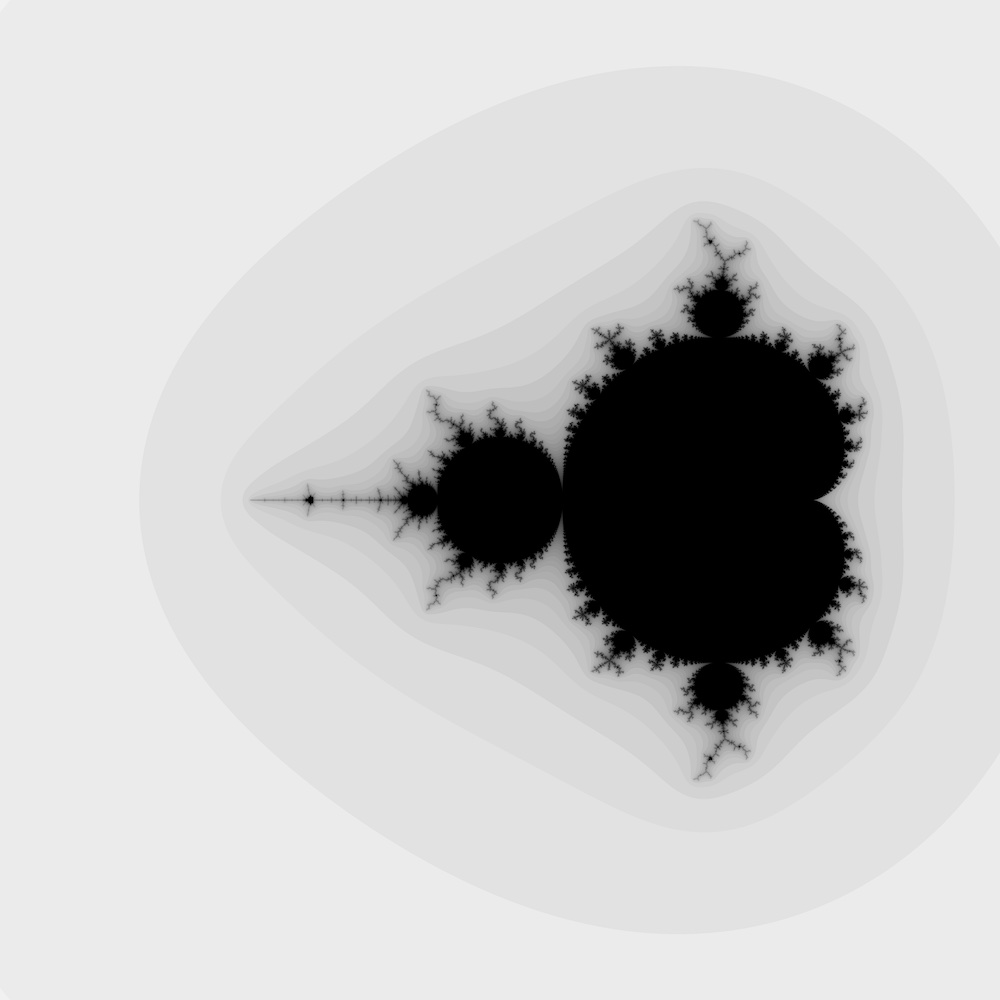
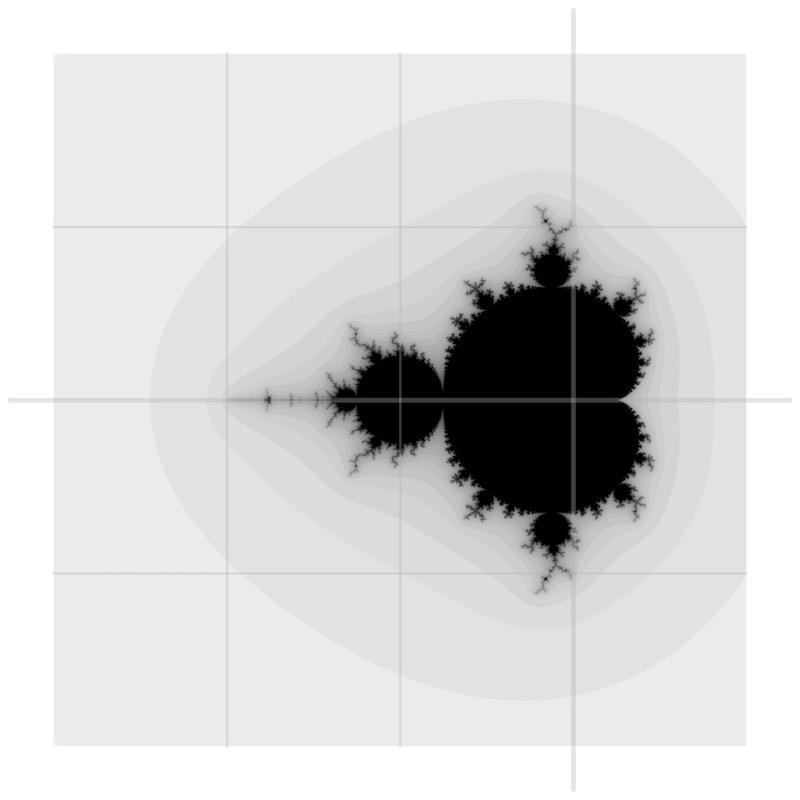
more README

Changed region(s): [[0.375, 0.2188, 0.875, 0.7812], [0.9062, 0.1562, 1.0, 0.8438], [0.2812, 0.4688, 0.3438, 0.5312]]

diff --git a/mandelbrot.c b/mandelbrot.c
@@ -4,18 +4,29 @@
 #include <printf.h>
 #include <stdlib.h>
 #include <math.h>
+#include <assert.h>
 #include "thread.h"
 #include "mandelbrot.h"
 
+#define TL_A -3.0
+#define TL_B +2.0
+#define BR_A +1.0
+#define BR_B -2.0
+
 Mandelbrot* mNew(Complex tl, Complex br, bool invert) {
   Mandelbrot* m = malloc(sizeof(Mandelbrot));
+  assert(m != NULL);
   m->tl = tl;
   m->br = br;
   Complex d = cSub(m->tl, m->br);
   m->w = (int) (fabs(d.a) / D);
   m->h = (int) (fabs(d.b) / D);
   m->i = malloc(m->h * sizeof(int*));
-  for (int y = 0; y < m->h; y++) m->i[y] = malloc(m->w * sizeof(int));
+  assert(m->i != NULL);
+  for (int y = 0; y < m->h; y++) {
+    m->i[y] = malloc(m->w * sizeof(int));
+    assert(m->i[y]);
+  }
   m->invert = invert;
   return m;
 }
@@ -29,6 +40,7 @@ void mDel(Mandelbrot* m) {
 
 static void save(Mandelbrot* mm[], int n, int w, int h, const char* fn) {
   FILE* fp = fopen(fn, "wb");
+  assert(fp != NULL);
   fprintf(fp, "P2\n%d %d\n%d\n", w, h, L);
   for (int i = 0; i < n; i++)
     for (int y = 0; y < mm[i]->h; y++) {
@@ -66,9 +78,9 @@ static void* mandelbrot(void* data) {
 
 static void serial() {
   /* Compute the Mandelbrot set using a single thread. */
-  Complex tl = rOfD(-3.0, +2.0);
-  Complex br = rOfD(+1.0, -2.0);
-  Mandelbrot* m = mNew(tl, br, true);
+  Complex tlM = rOfD(TL_A, TL_B);
+  Complex brM = rOfD(BR_A, BR_B);
+  Mandelbrot* m = mNew(tlM, brM, true);
   mandelbrot(m);
   Mandelbrot* mm[] = {m};
   save(mm, 1, m->w, m->h, "./mandelbrot-s.pgm");
@@ -77,16 +89,16 @@ static void serial() {
 
 static void parallel() {
   /* Compute the Mandelbrot set using multiple threads. */
-  Complex tl = rOfD(-3.0, +2.0);
-  Complex br = rOfD(+1.0, -2.0);
-  Complex d = cSub(tl, br); // c-plane dimensions
-  double py = d.b / (double) NUM_THREADS; // c-plane patch height
+  Complex tlM = rOfD(TL_A, TL_B);
+  Complex brM = rOfD(BR_A, BR_B);
+  Complex d = cSub(tlM, brM); // c-plane dimensions
+  double yP = d.b / (double) NUM_THREADS; // c-plane patch height
   Mandelbrot* mm[NUM_THREADS];
   Thread tt[NUM_THREADS];
   for (int t = 0; t < NUM_THREADS; t++) {
-    Complex ptl = rOfD(tl.a, tl.b - (double) t * py);
-    Complex pbr = rOfD(br.a, ptl.b - py);
-    mm[t] = mNew(ptl, pbr, false);
+    Complex tlP = rOfD(tlM.a, tlM.b - (double) t * yP);
+    Complex brP = rOfD(brM.a, tlP.b - yP);
+    mm[t] = mNew(tlP, brP, false);
     tt[t] = tRun(mandelbrot, mm[t]);
   }
   for (int t = 0; t < NUM_THREADS; t++) tStop(tt[t]);

diff --git a/README.md b/README.md
@@ -44,7 +44,7 @@ The file `thread.[ch]` provide a simplified interface to POSIX threads. `tRun()`
 
 The Mandelbrot set fractal is named after its discoverer, [Benoît Mandelbrot](https://en.wikipedia.org/wiki/Benoit_Mandelbrot), a Polish-born American mathematician, who is known for his work in the fields of fractal geometry, chaos theory, and complex analysis.
 
-A [fractal](https://en.wikipedia.org/wiki/Fractal) is a geometric object that is recursively self similar at any scale. That is, a zoomed in version of a fractal contains similar, but smaller and differently oriented, copies of the original. Remarkably, a fractal exhibits self similarity at all scales. Fractals exist in nature: coastlines, ice crystals, broccoli heads, to name a few. And there are many mathematical fractals: Julia set, von Koch curve, Sierpiński triangle, etc. The Mandelbrot set $M$—that dark region in the image below—is the most famous of them all. The self similarity of $M$ is self evident.
+A [fractal](https://en.wikipedia.org/wiki/Fractal) is a geometric object that is recursively self similar at any scale. That is, a zoomed in version of a fractal contains similar, but smaller and differently oriented, copies of the original. Remarkably, a fractal exhibits self similarity at all scales. Fractals exist in nature: coastlines, ice crystals, broccoli heads, to name a few. And there are many mathematical fractals: Julia set, von Koch curve, Sierpiński triangle, etc. The Mandelbrot set $M$—that strange, dark shape in the image below—is the most famous of them all. The self similarity of $M$ is self evident.
 
 ![Mandelbrot set fractal](./doc/mandelbrot.jpg)
 
@@ -52,10 +52,46 @@ Although the mathematics that underlies the Mandelbrot set is intricate and expa
 
 First, we define a square region on the complex $c$-plane, with the top-left corner at $-3.0 + j2.0$ and the bottom-right corner at $+1.0 - j2.0$. Hence, this region is $4.0 \times 4.0$ in size. Next, we select a complex number $c$ from this region, say the top-left corner. Then, we iterate the expression $z \leftarrow z^2 + c$, where $c$ is the value selected and the initial value of $z$ is set to the origin $0.0 + j0.0$ of the $c$-plane. In mathematics, to iterate a function $f$ on an argument $x$ is to compute $f \circ f \circ ... f\ x$. In functional programming, we may write `x |> f |> f |> ... |> f`, where `|>` means pipe-right.
 
-We terminate the process either when we have iterated a fixed number of times or when the result meets a certain criterion. As we iterate, the value of $z$ chaotically hops about the $c$-plane, and eventually reaching one of these states: falls into the origin if $c$ is selected from inside the set $M$; endlessly swirls along the boundary of $M$ of $c$ itself is on the boundary; or escapes to $∞$ if $c$ is outside $M$. Here, we iterate $100$ times or until $\lvert z \rvert > 10.0$, whichever comes first. The plot below shows the trajectory of $z$ for $c = -0.74543 + j0.11301$, which is in a neighbourhood of $M$ called the [Seahorse Valley](https://upload.wikimedia.org/wikipedia/commons/5/5b/Mandel_zoom_03_seehorse.jpg), for the repeated seahorse shapes that dot all along the boundary of $M$ in this neighbourhood. Those blue dots that indicate the trajectory of $z$ do indeed resemble a pair of seahorses.
+We terminate the process either when we have iterated a fixed number of times or when the result meets a certain criterion. As we iterate, the value of $z$ chaotically hops about the $c$-plane, and eventually reaching one of these states: falls into the origin if $c$ is selected from inside the set $M$; endlessly swirls along the boundary of $M$ of $c$ itself is on the boundary; or escapes to $∞$ if $c$ is outside $M$. The origin and the $\infty$ are referred to as *attractors* in the complex analysis subfield of mathematics. Here, we iterate $100$ times or until $\lvert z \rvert > 10.0$, whichever comes first. The plot below shows the trajectory of $z$ for $c = -0.74543 + j0.11301$, which is in a neighbourhood of $M$ called the [Seahorse Valley](https://upload.wikimedia.org/wikipedia/commons/5/5b/Mandel_zoom_03_seehorse.jpg), for the repeated seahorse shapes that dot all along the boundary of $M$ in this neighbourhood. Those blue dots that indicate the trajectory of $z$ do indeed resemble a pair of seahorses.
 
 ![Mandelbrot set fractal](./doc/iterate.jpg)
 
 When the iteration for a specific $c$ terminates, we associate the final iteration index, referred to as the *escape time*, with the location on the $c$-plane corresponding that $c$. Then, we select another $c$ value, say a small distance $𝛿$ away from the value used in the previous iteration, and repeat the process. We do this until the whole $4.0 \times 4.0$ region has been iterated over in this manner, thus obtaining a map of escape times for all values of $c$ within the region. Mapping these escape times from their original range $[0, 100]$ to the new range $[0, 255]$ yields a viewable greyscale Mandelbrot set, as shown above. We use $𝛿 = 0.001$ here, so we get $4.0\ ÷\ 0.001 = 4,000$ pixels per side of the image.
 
-We may think of our Mandelbrot set generator as a zooming microscope: the $4.0 \times 4.0$ region of interest on the $c$-plane is like the objective lens and the $4,000 \times 4,000$ window on the computer display is like the eyepiece. We can zoom out by expanding the region of interest, and zoom in by contracting it. Whatever the zoom level, we still have the same image size. If we zoom out far enough, the entire Mandelbrot set shrinks down to a dot, and the grey rings that wrap the set look more and more circular. That way lies nothing of interest. The joy of studying the Mandelbrot set is to zoom in, deeper and deeper. Using a simple, immediate-mode GUI, like [Nuklear](https://github.com/Immediate-Mode-UI/Nuklear), it is fairly straightforward to add to our programme an image display with a click-to-zoom functionality.
+We may think of our Mandelbrot set generator as a zooming microscope: the $4.0 \times 4.0$ region of interest on the $c$-plane is like the objective lens and the $4,000 \times 4,000$ window on the computer display is like the eyepiece. We can zoom out by expanding the region of interest, and zoom in by contracting it. Whatever the zoom level, we still have the same image size. If we zoom out far enough, the entire Mandelbrot set shrinks down to a dot, and the grey rings that wrap the set look more and more circular. That way lies nothing of interest. The joy of studying the Mandelbrot set is to zoom in, deeper and deeper. Using a simple, immediate-mode GUI, like [Nuklear](https://github.com/Immediate-Mode-UI/Nuklear), it is fairly straightforward to add to this programme an image display with a click-to-zoom functionality. And if desired, we could add a colour palette that maps the greyscale values into RGB colour values.
+
+# IMPLEMENTATION
+
+## *POSIX threads*
+
+On my Mac equipped with a 3.2 GHz, 6-core Intel Core i7 CPU, the 1-thread version of the Mandelbrot set generator takes nearly 20 s, and the 100-thread version takes just 3 s to complete. But before you run off to convert your existing project to multi-threaded versions, recognise that multi-threading is hard, extremely hard. In essence, you are opting to implement your application as a mini operating system, and assuming the risks—and the rewards—that accompany such system-level programming.
+
+The reason I chose the Mandelbrot set problem to demonstrate multi-threaded programming is the inherently simple nature of this problem. Upon close inspection, it is plain to see that each iterative process of $z$ values for a chosen $c$ value is independent of all other iterative processes. Indeed, we could fork a thread for each pixel on the image. But just because we could does not mean we should. Doing so would create $4,000 \times 4,000 = 16,000,000$ threads. One programme spawning that many threads amounts to an assault upon any operating system. Most modern operating systems could handle thousands of thread per program, but the exact number depends on the operating system, the programming language, and the thread library implementations.
+
+A sensible approach is to divide up the region of interest into 100 patches and compute those subsets of $M$ using 100 different threads. Since each patch can be computed independently of all other patches, it is not necessary to coordinate the execution of these threads. In high performance computing world, we refer to this type of problem somewhat derisively as "embarrassingly parallel problem". This unusually high degree of parallelism of the Mandelbrot set generator is why the parallel version is much faster than the serial version.
+
+Most real-world multi-threaded programmes, however, are not that simple, nor are they that embarrassing. A typical multi-threaded programme requires the programmer to control the execution schedule of the threads and to regulate the sharing of the data among them by using mutually exclusive (mutex) locks. The need to coordinate the execution and to sequence the data access rob the threads of their independence and their parallelism.
+
+Be that as it may, in our programme, we need only to create a thread, give it a unique patch of the region of interest along with the thread worker function `mandelbrot()`. This function takes a thread-specific argument `void* data`. It reinterprets this argument as `Mandelbrot* m`, and it accesses the thread-specific top-left and bottom-right bounds of the region of interest as `m→tl` and `m→br`. Each computed greyscale value is then stored in `m→i[y][x]`, where is the pixel intensity of the point $(x, y)$ in the final image. `mandelbrot()` uses its `data` argument both for receiving input and for returning output. Alternatively, this function can return the greyscale image as its output.
+
+C is a loosely typed language, so its type system does not support [parametric polymorphism](https://en.wikipedia.org/wiki/Parametric_polymorphism). The only practicable way to simulate parametric polymorphism is to cast a pointer of some type, say `Mandelbrot*` to a pointer to the `void` type, namely `void*`.
+
+## *complex numbers*
+
+All eighth graders are acquainted with the nature and the algebra of complex numbers, so I shall jump right into the implementation of the complex numbers module.
+
+The convention in C is to implement a module in the `.c` file and expose the interface via the `.h` file. Here, we represent a complex number as a `struct` containing the kind `enum` tag (`R` for rectangular and `P` for polar) and a pair of `double` values. But we depart from traditional C API design. Traditionally, a C module would include constructors that take a pointer to the record being constructed and return an `int` error code. Here, we provide constructors that take data values and return a constructed record, namely `Complex`: `rOfD()`, `rOfP()`, and so on.
+
+Once the `Complex` records have been created, we manipulate them using operators such as `cAdd()`, `cSub()`, etc., which take and return `Complex` records. These operators have no internal state and they produce no side effects. For example, we add two complex numbers by calling `Complex sum = cAdd(c, d)`, where `c` and `d` are records of the `Complex` type, neither is mutated, a newly instantiated `Complex` record is returned, and there is no hidden state in `cAdd()`. This is the functional style: no pointers, no mutations. In multi-threaded programming, immutability goes a long way.
+
+Note that C passes `struct` by value. So, it would be uneconomical to employ the functional style with a large `struct`. In that case, we are obliged to follow the C convention of taking a pointer to the `struct`, populate it, and return an `int` error code. And the manipulator functions for that large `struct` would also have to take a pointer and mutate the data. In multi-threaded programmes, we would have to employ synchronisation mechanisms—mutex, condition variables, or semaphores—to coordinate multiple threads' access to a single data structure.
+
+# CONCLUSION
+
+This project demonstrates the use of POSIX threads and the mutation-free functional style in C. It is purposefully simple, so that the main concepts are unobscured by the infrastructure- and error-handling bits of code.
+
+## *resources*
+
+- [*pthread Tutorial*](http://lemuria.cis.vtc.edu/~pchapin/TutorialPthread/pthread-Tutorial.pdf), Chapin
+- [*Pthreads Library*](https://docs.oracle.com/cd/E37838_01/html/E61057/tlib-1.html), Oracle
+- [`pthread.h`](https://pubs.opengroup.org/onlinepubs/7908799/xsh/pthread.h.html) man page, OpenGroup.org
